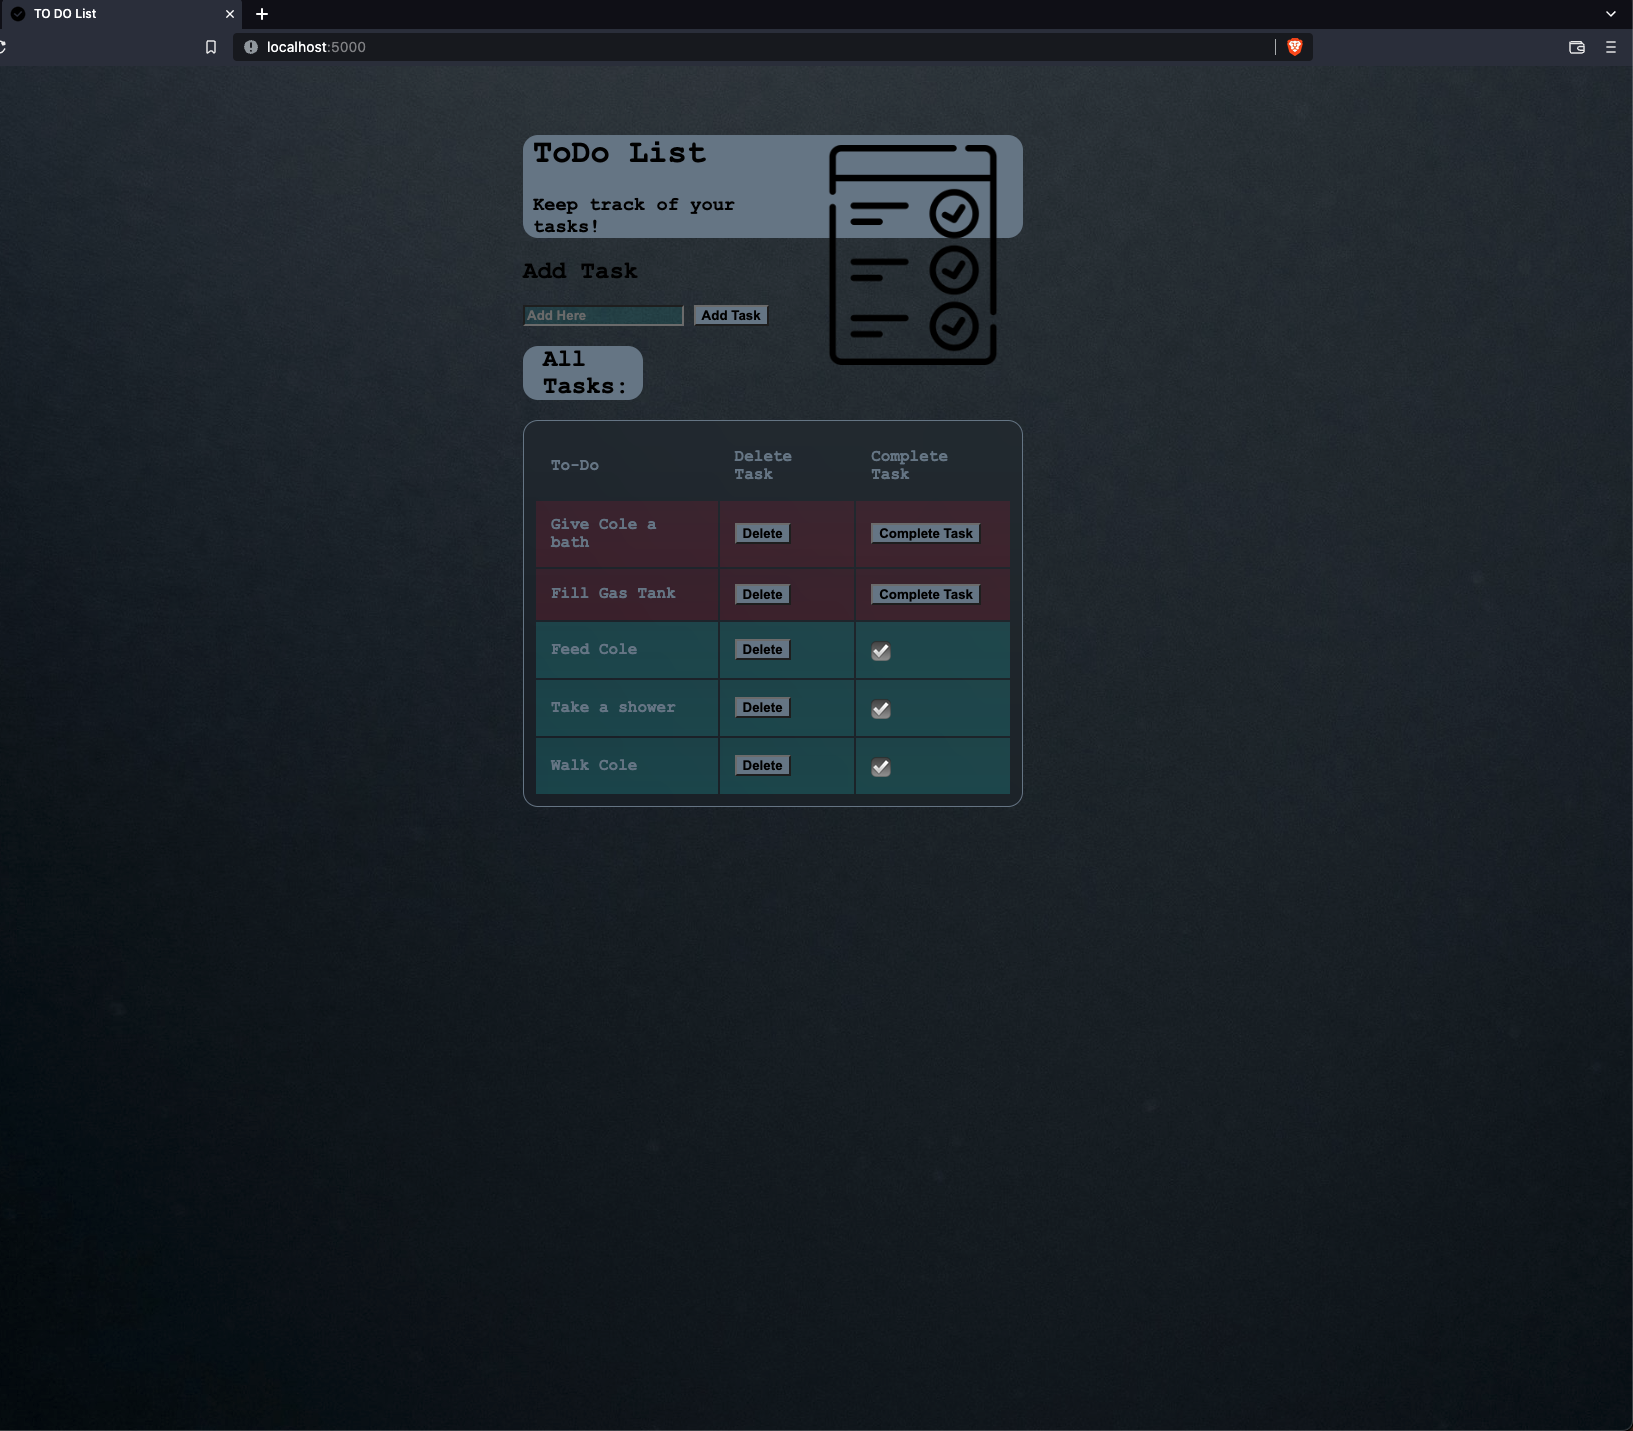
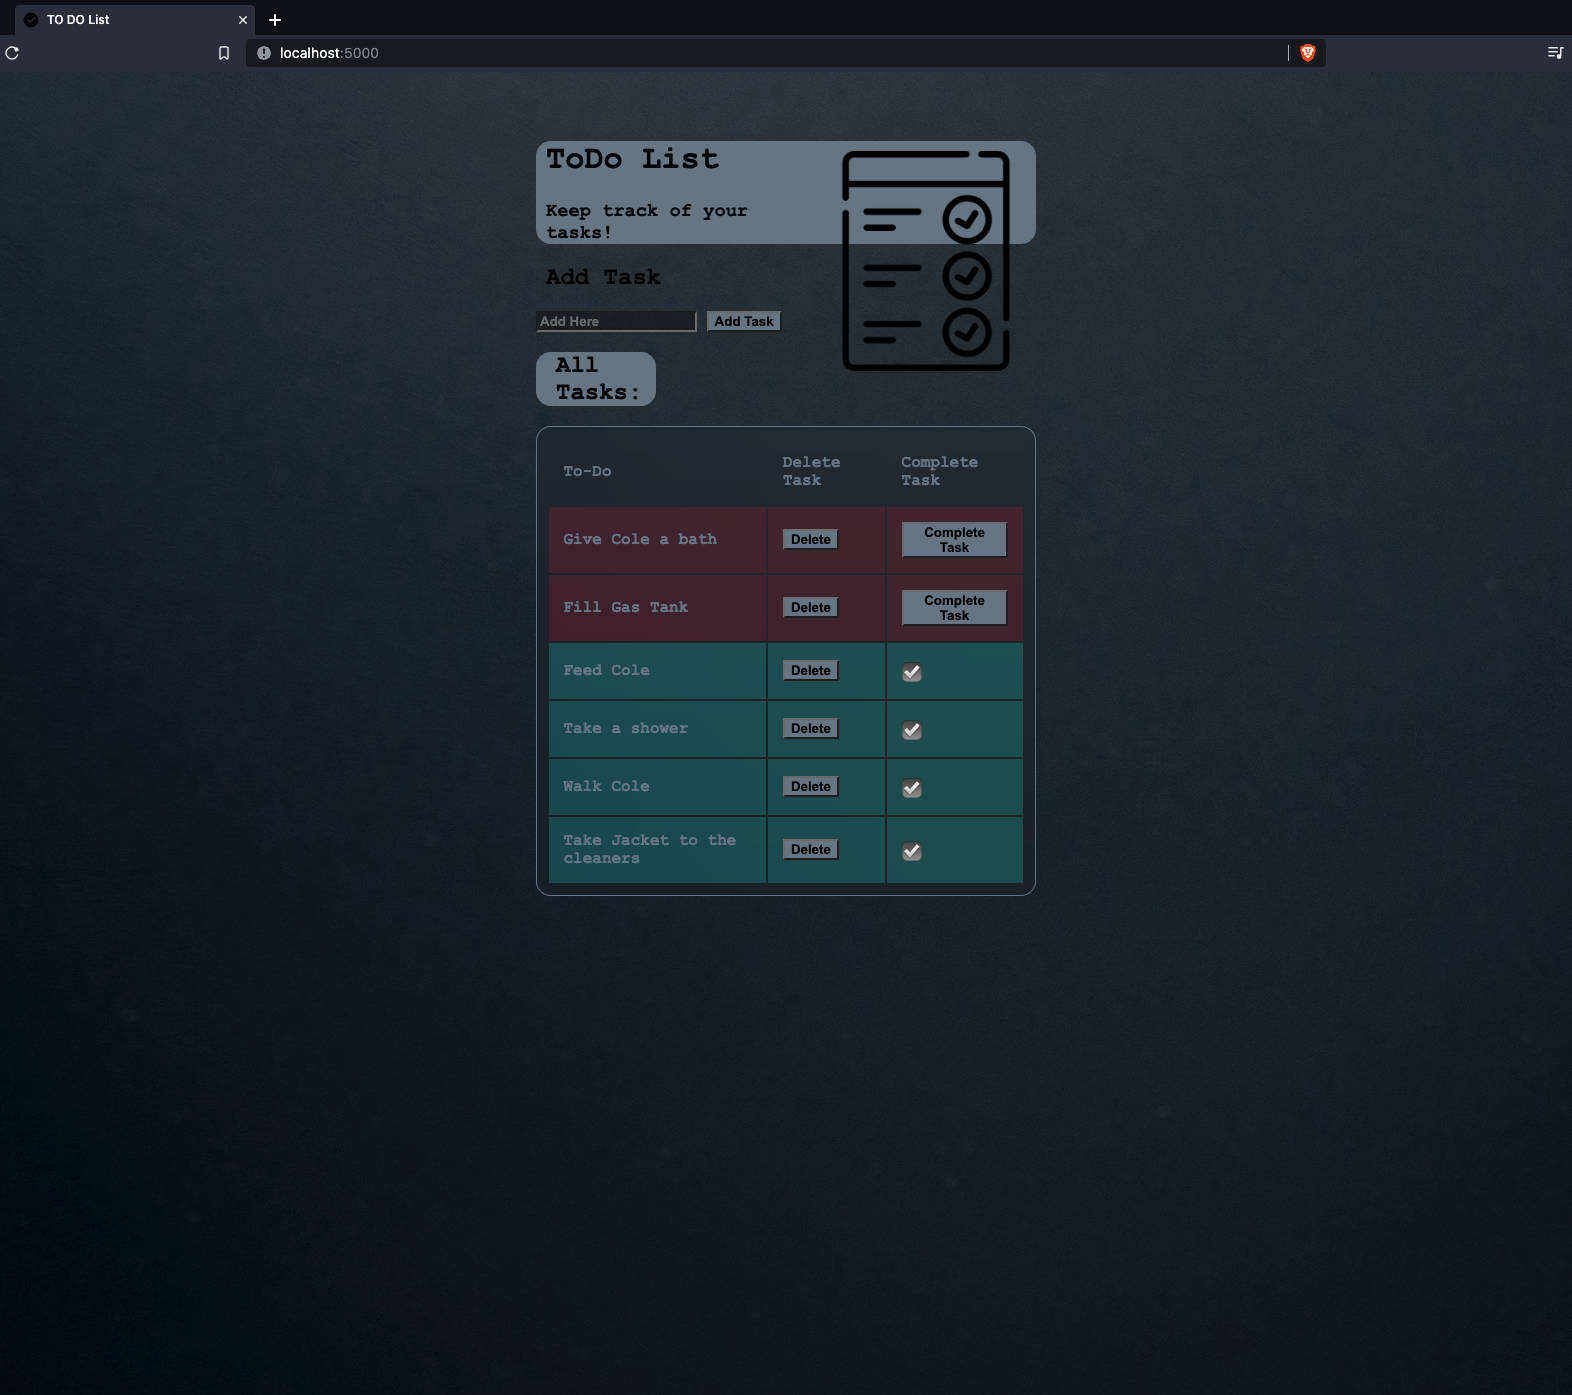
Add input validation, Update example

Changed region(s): [[0.3117, 0.0925, 0.6858, 0.6473], [0.0, 0.0, 1.0, 1.0]]

diff --git a/server/public/scripts/client.js b/server/public/scripts/client.js
@@ -1,7 +1,7 @@
 $(document).ready(onReady);
 
 function onReady() {
-  $('#addButton').on('click', addTask);
+  $('#addButton').on('click', valid);
   getList();
 
   $('#viewTasks').on('click', '.delButton', delTask); // dynamically created button
@@ -88,3 +88,12 @@ function delTask() {
     alert('error delTask');
   })
 } // end delTask
+
+function valid() {
+
+  if (($('#taskIn').val() === '')) {
+    alert('Please enter a task.');
+  } else {
+    addTask();
+  }
+}

diff --git a/server/public/style/list.css b/server/public/style/list.css
@@ -29,8 +29,8 @@ body {
 
 input {
 
-    background-color: rgba(0, 255, 255, 0.099);
-    color: black;
+    background-color:rgba(0, 0, 0, 0.36);
+    color:slategray;
     font-weight: bolder;
 
 }
@@ -94,9 +94,10 @@ table {
     background-color: slategrey;
     font-weight: bolder;
     border-radius: 15px;
-
 }
-
+.addTask{
+    padding-left: 10px;
+}
 
 
 button:hover {

diff --git a/server/public/index.html b/server/public/index.html
@@ -19,7 +19,7 @@
 
     </header>
     <section id="addTask">
-      <h2>Add Task</h2>
+      <h2 class="addTask" >Add Task</h2>
       <input type="text" id="taskIn" value="" placeholder="Add Here">
       <button type="button" id="addButton">Add Task</button>
     </section>
